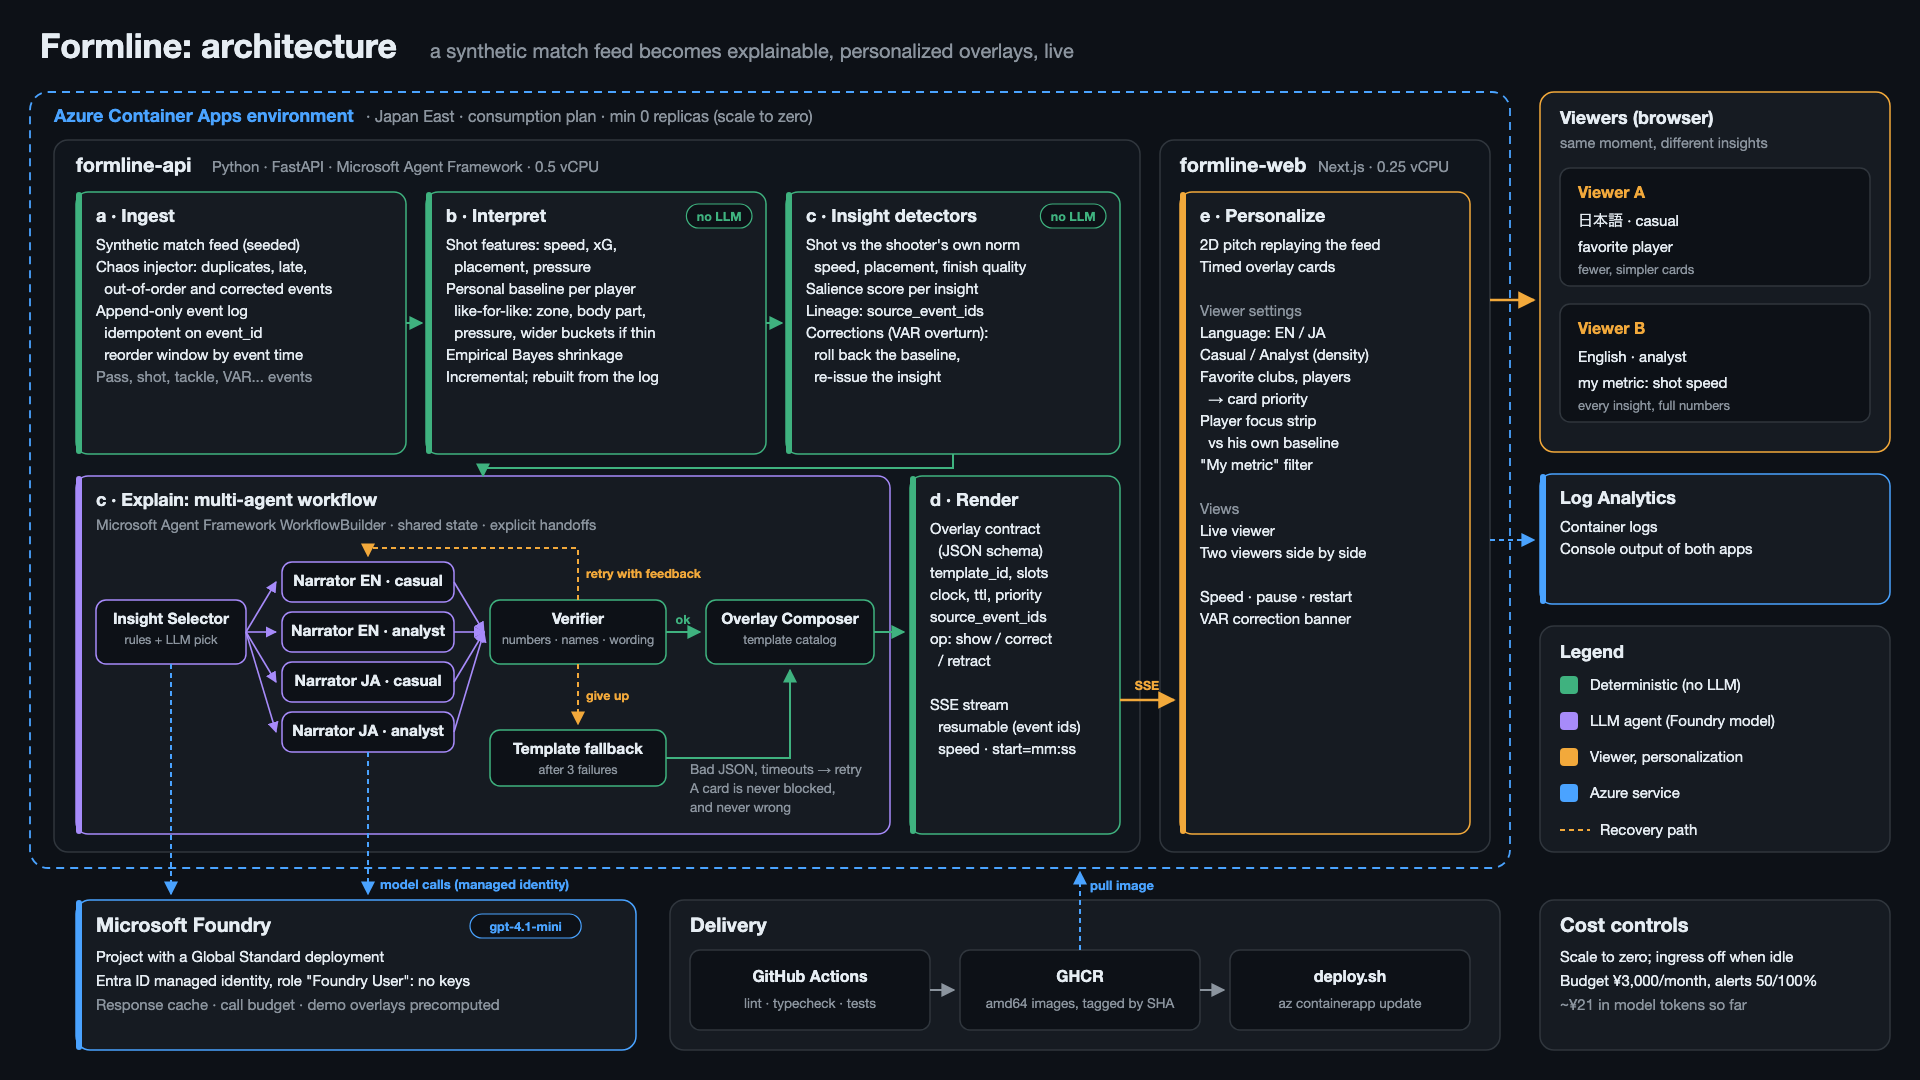
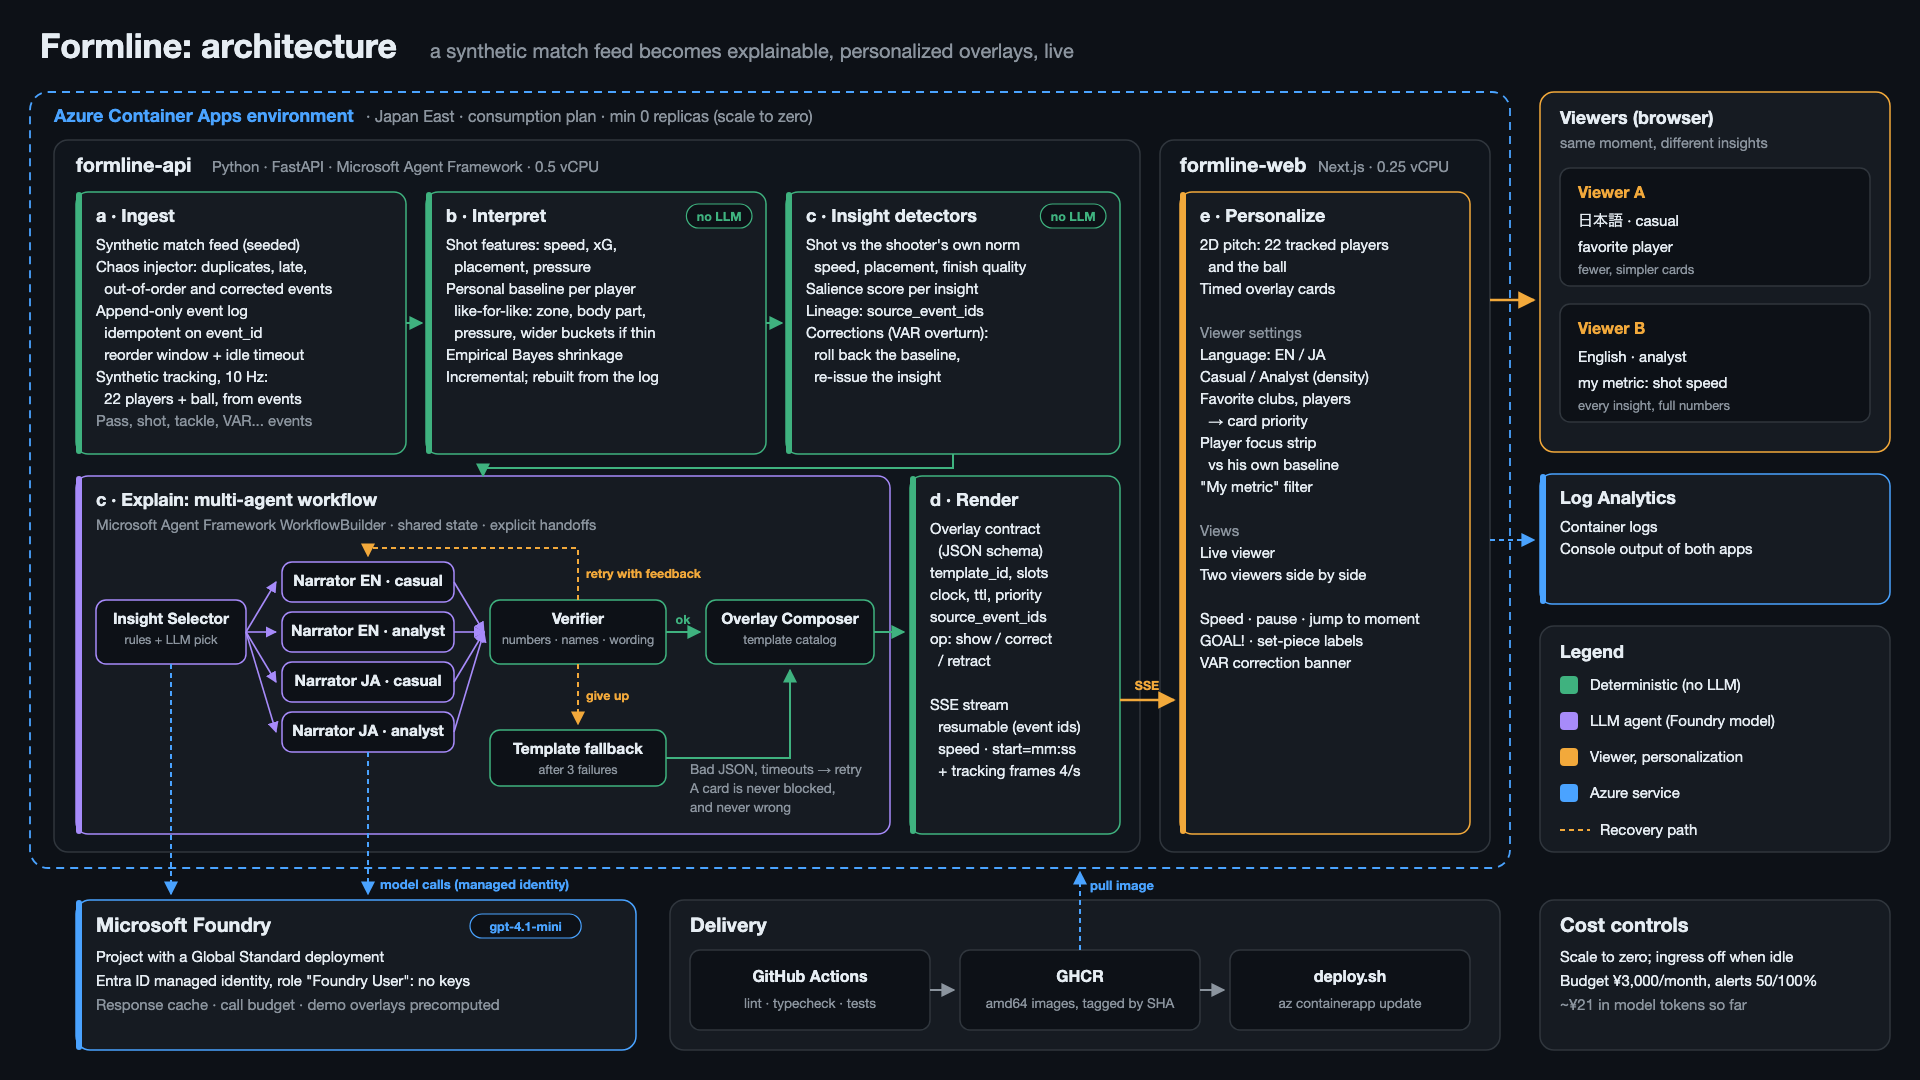
Show tracking, the idle timeout and the new viewer features in the diagram
Ingest now lists the reorder window's idle timeout and the synthetic tracking (22
players and the ball at 10 Hz, derived from events); Render adds tracking frames on the
stream (4 per second); Personalize lists the tracked pitch, jump to moment, and the GOAL!
and set-piece labels. SVG regenerated and the 1920x1080 PNG re-exported.

Claude-Session: https://claude.ai/code/session_01Jo1vfoxRo41TjTbX6jqtVL

Changed region(s): [[0.625, 0.2139, 0.75, 0.6417], [0.0312, 0.3056, 0.1562, 0.3972], [0.5, 0.7028, 0.5625, 0.7333]]

diff --git a/docs/architecture/build_diagram.py b/docs/architecture/build_diagram.py
@@ -55,7 +55,9 @@ box(76,192,330,262,'a · Ingest',GREEN,[
  '  out-of-order and corrected events',
  'Append-only event log',
  '  idempotent on event_id',
- '  reorder window by event time',
+ '  reorder window + idle timeout',
+ 'Synthetic tracking, 10 Hz:',
+ '  22 players + ball, from events',
  ('Pass, shot, tackle, VAR... events',MUTED),
 ])
 box(426,192,340,262,'b · Interpret',GREEN,[
@@ -116,6 +118,7 @@ box(910,476,210,358,'d · Render',GREEN,[
  'SSE stream',
  '  resumable (event ids)',
  '  speed · start=mm:ss',
+ '  + tracking frames 4/s',
 ])
 arrow([(874,632),(904,632)],GREEN)
 
@@ -123,7 +126,8 @@ arrow([(874,632),(904,632)],GREEN)
 rect(1160,140,330,712,stroke=BORDER,fill='#10151c',r=14)
 text(1180,172,'formline-web',20,TEXT,700); text(1318,172,'Next.js · 0.25 vCPU',15,MUTED)
 box(1180,192,290,642,'e · Personalize',GOLD,[
- '2D pitch replaying the feed',
+ '2D pitch: 22 tracked players',
+ '  and the ball',
  'Timed overlay cards',
  '',
  ('Viewer settings',MUTED),
@@ -139,7 +143,8 @@ box(1180,192,290,642,'e · Personalize',GOLD,[
  'Live viewer',
  'Two viewers side by side',
  '',
- 'Speed · pause · restart',
+ 'Speed · pause · jump to moment',
+ 'GOAL! · set-piece labels',
  'VAR correction banner',
 ],size=15)
 arrow([(1120,700),(1174,700)],GOLD,sw=2.5); text(1147,690,'SSE',12.5,GOLD,700,'middle')
